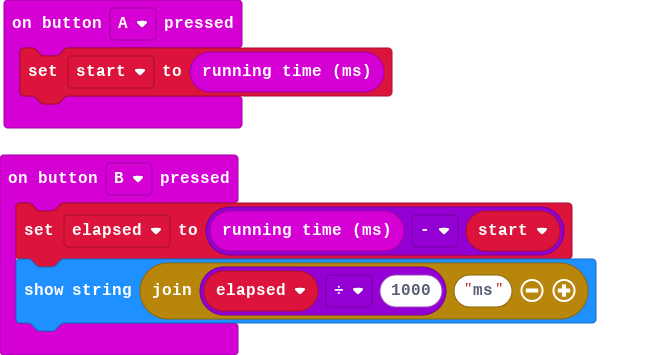
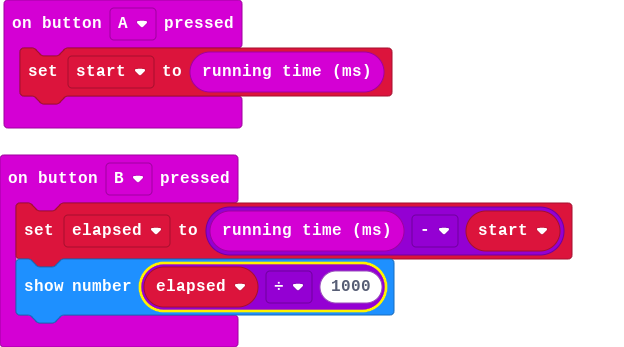
()[]{}<>

diff --git a/main.ts b/main.ts
@@ -5,5 +5,5 @@ input.onButtonPressed(Button.A, function () {
 })
 input.onButtonPressed(Button.B, function () {
     elapsed = input.runningTime() - start
-    basic.showString("" + elapsed / 1000 + "ms")
+    basic.showNumber(elapsed / 1000)
 })
